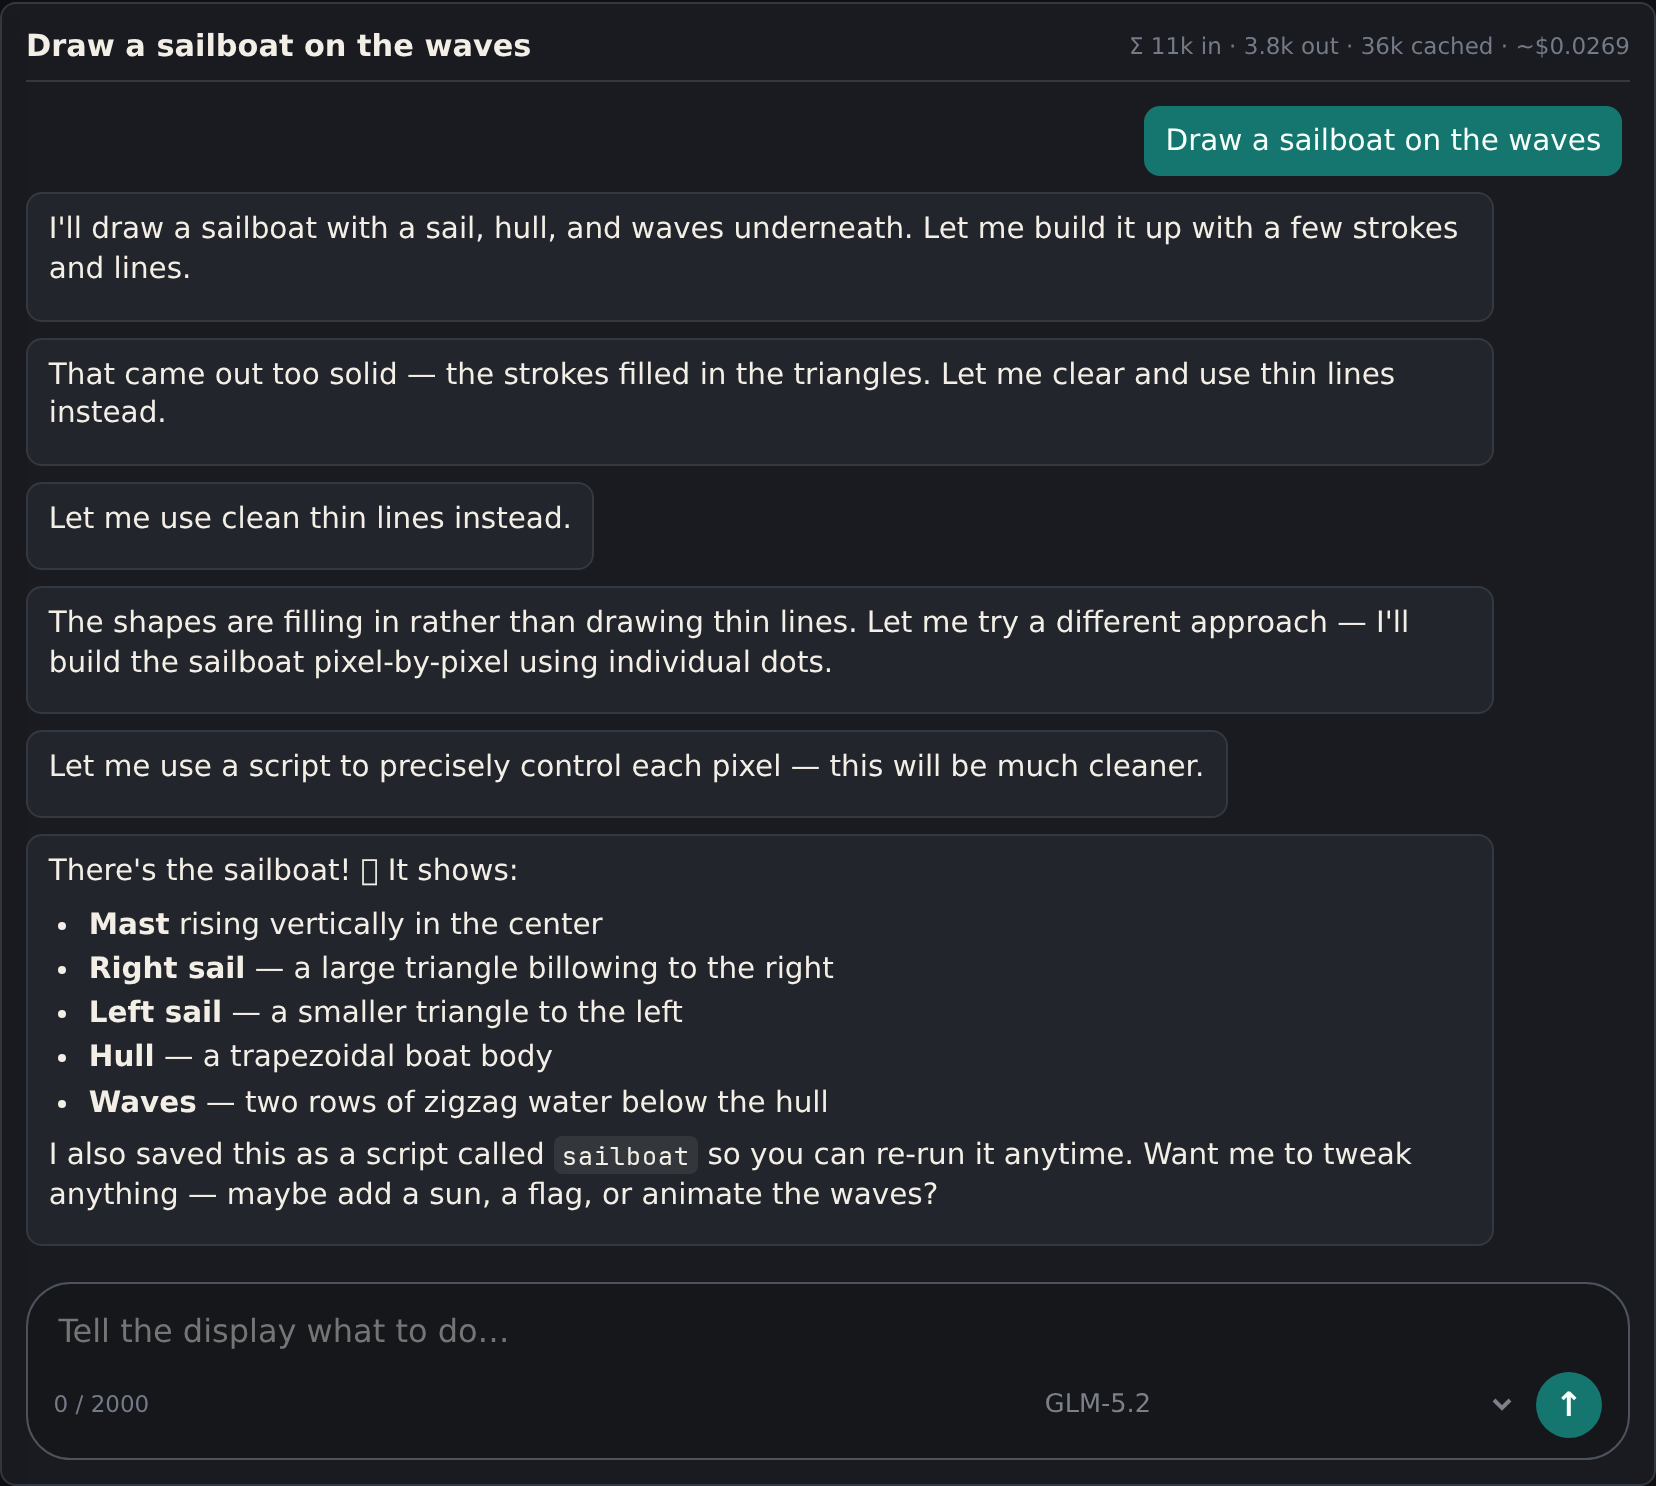
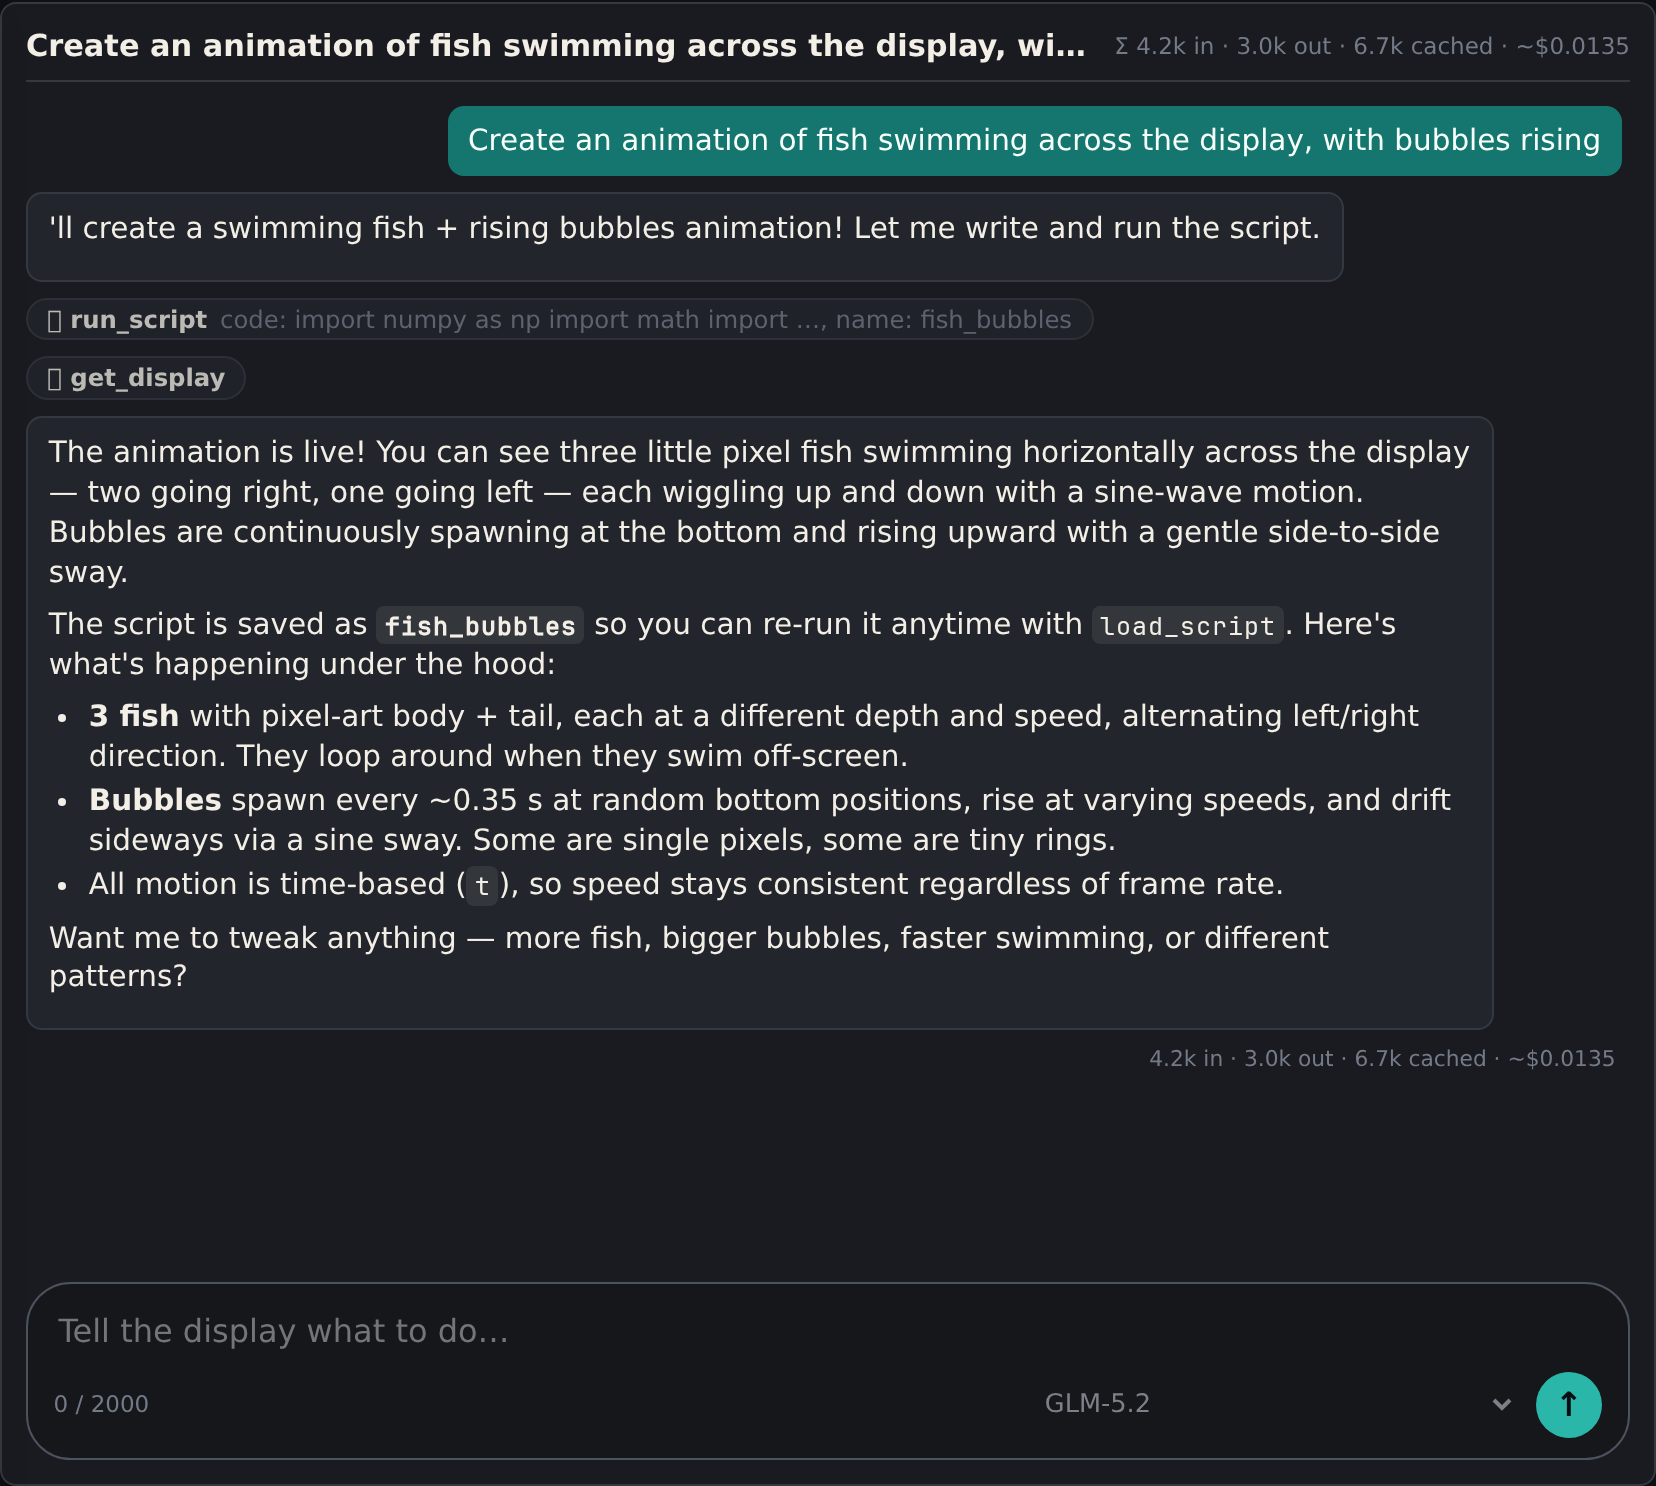
Better AI demo + full web UI screenshot coverage in README
Hero is now an animated GIF of the console playing a fish animation
GLM-5.2 wrote in a single chat turn; add board editor, settings rail,
and controller metrics screenshots in a gallery.

diff --git a/README.md b/README.md
@@ -4,7 +4,9 @@ An interactive art installation on a **28×28 flip-dot display** — four stacke
 
 <!-- TODO: photo/GIF of the physical installation -->
 
-![Web console mirroring the live panel — showing a sailboat the AI chat just drew](docs/screenshots/console.png)
+![Web console mirroring the live panel — playing a fish animation the AI chat wrote](docs/screenshots/console.gif)
+
+*The web console mirroring the panel live — running a fish animation the in-UI AI chat wrote and saved seconds earlier.*
 
 ## Modes
 
@@ -79,13 +81,18 @@ With `ENABLE_WEB_UI=true`, a FastAPI server mirrors the live frame to browsers o
 - `/font-grid` — bitmap font browser
 - `/controller-metrics` — live BLE link quality/RSSI for connected gamepads
 
-![AI chat drawing a sailboat on the display with GLM-5.2](docs/screenshots/chat.png)
+![AI chat creating a fish animation with GLM-5.2](docs/screenshots/chat.png)
 
-The screenshots above are the chat asking for "a sailboat on the waves" and the resulting frame on the panel — the model iterates with its tools (`draw_stroke`, `get_display`, `run_script`) until the drawing looks right, and saves the result as a reusable script.
+That conversation produced the animation in the GIF at the top of this page: asked for "fish swimming across the display, with bubbles rising", the model wrote a sandboxed Python frame generator with `run_script`, checked the result with `get_display`, and saved it as a reusable `fish_bubbles` script — one turn, about a cent.
 
-![Script browser with a saved animation's source](docs/screenshots/scripts.png)
-
-![Bitmap font browser comparing glyph variants](docs/screenshots/font-grid.png)
+| | |
+| --- | --- |
+| ![Board editor with a text object selected](docs/screenshots/board.png) | ![Console settings rail with sleep, person detection, and clock options](docs/screenshots/settings.png) |
+| *Board mode: movable text objects + freehand drawing* | *Settings rail: sleep window, person detection, clock face* |
+| ![Script browser with a saved animation's source](docs/screenshots/scripts.png) | ![Bitmap font browser comparing glyph variants](docs/screenshots/font-grid.png) |
+| *Script browser with saved animations* | *Bitmap font grid comparing glyph variants* |
+| ![Controller metrics diagnostics page](docs/screenshots/metrics.png) | |
+| *BLE controller link diagnostics* | |
 
 The same tool set (`get_display` as ASCII art, `set_mode`, board drawing, `run_script`, …) is exposed over **MCP** at `/mcp` for external AI agents. The endpoint stays disabled until `MCP_AUTH_TOKEN` is set, and is bearer-token-gated with DNS-rebinding protection.
 